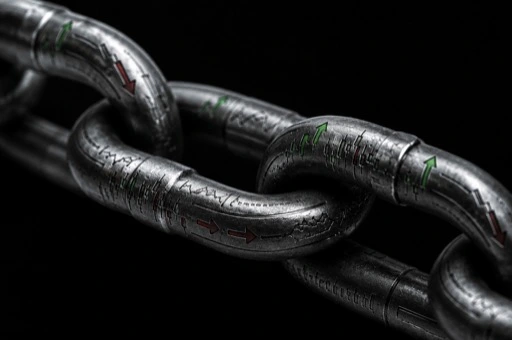
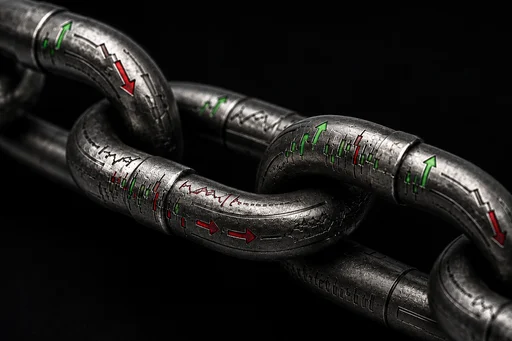
feat: new Build from the Chain artwork
A steel chain with the links carrying price marks, replacing the previous
option-chain image. Resized on its own 1.502:1 aspect to 512x341, with
`imageHeight` moving 340 to 341 rather than squashing it into the old
ratio. Slightly smaller on disk than what it replaces, at 21,832 bytes.

The OPAQUE render, deliberately, not the alpha cut-out that also exists.
This card composites with `mix-blend-lighten`, where black is the
identity — so the render's soft dark falloff drops out on its own and the
chain keeps its edge glow. A hard alpha cut would have given it a pasted-on
edge, and the image it replaces was opaque for the same reason.

Completes the set. All five capability cards now share one brushed-steel
language, and they land in a sensible order of loudness — workspace 2.3%
chromatic, chain 3.9%, greeks 4.0%, alerts 6.7%, compass 16.3%.

diff --git a/src/data/lqip.ts b/src/data/lqip.ts
@@ -13,7 +13,7 @@ export const LQIP: Readonly<Record<string, string>> = {
[8 lines of base64/hex data omitted]

diff --git a/src/data/capabilities.ts b/src/data/capabilities.ts
@@ -47,7 +47,7 @@ export const capabilityCards: CapabilityCard[] = [
     badge: 'Options',
     image: '/images/capabilities/option_chain.webp',
     imageWidth: 512,
-    imageHeight: 340,
+    imageHeight: 341,
   },
   {
     id: 'greeks-in-plain-english',
